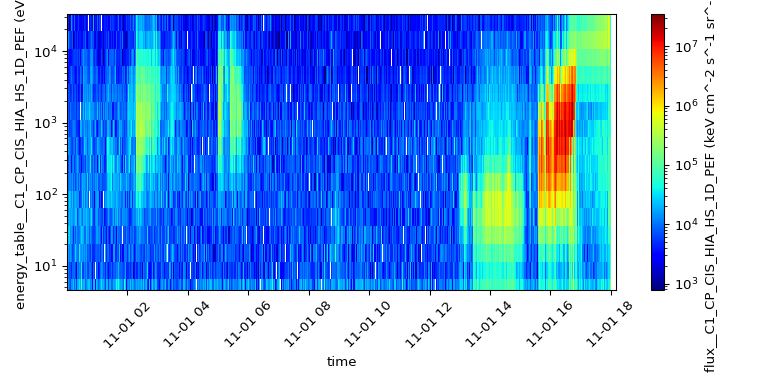
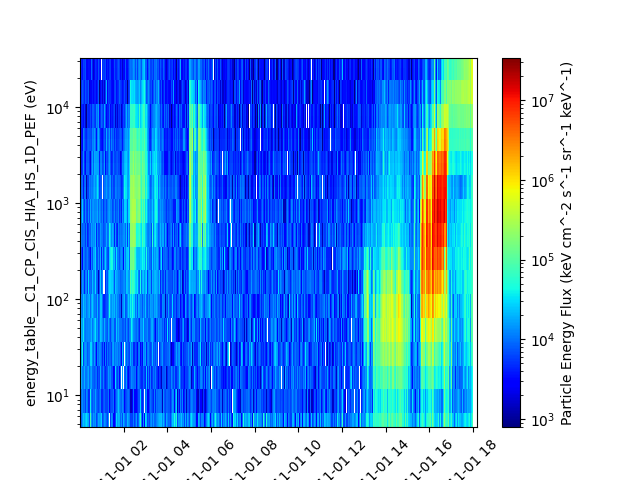
docs: document ISTP metadata-driven plot defaults

diff --git a/docs/user/plotting.rst b/docs/user/plotting.rst
@@ -62,6 +62,12 @@ Spectrogram products are detected from their metadata, so ``.plot()`` is usually
 (frequency or energy) and ``logz`` log-scales the colour scale, both on by default, and ``cmap``,
 ``vmin`` and ``vmax`` are passed through to matplotlib.
 
+When the source metadata provides them, ``.plot()`` also picks up a few ISTP attributes
+automatically: ``SCALETYP`` sets the default log/linear scale (still overridable with
+``logy``/``logz``), ``FILLVAL`` entries are masked to NaN before plotting (disable with
+``mask_fillval=False``), and ``LABLAXIS`` is preferred over the raw CDF variable name for
+axis and colorbar labels when you don't pass one explicitly.
+
 .. code-block:: python
 
     csa = spz.inventories.tree.csa.Cluster.Cluster_1.CIS_HIA1.C1_CP_CIS_HIA_HS_1D_PEF